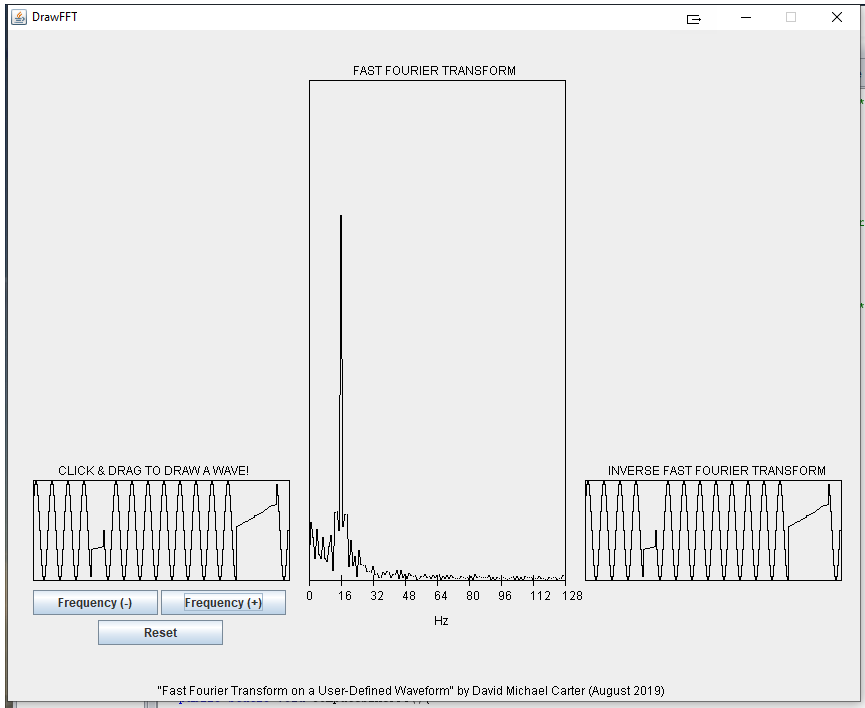
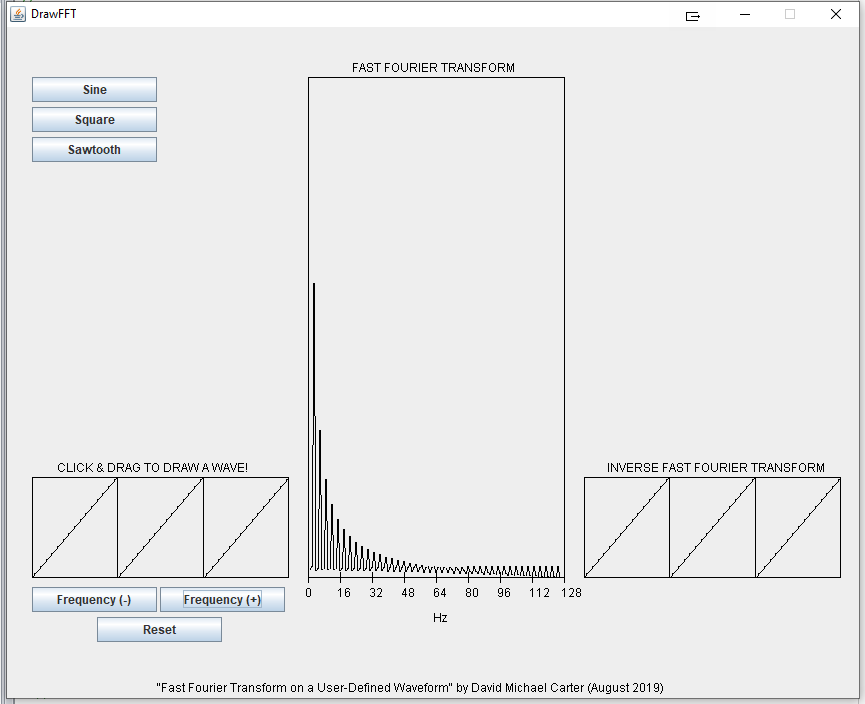
updated test image, description

diff --git a/DrawFFT/DrawFFT.java b/DrawFFT/DrawFFT.java
@@ -3,7 +3,7 @@
 // David Michael Carter
 // Created 03 August 2019
 //
-// INPUT:   Click & Drag to create a user-defined waveform
+// INPUT:   Click & Drag to create a user-defined waveform, or select/edit a preset wave.
 //
 // OUTPUT:  User-defined waveform is transformed to frequency domain using the Fast Fourier Transform.
 //          Frequency data is then transformed back into the time domain using the Inverse FFT.
